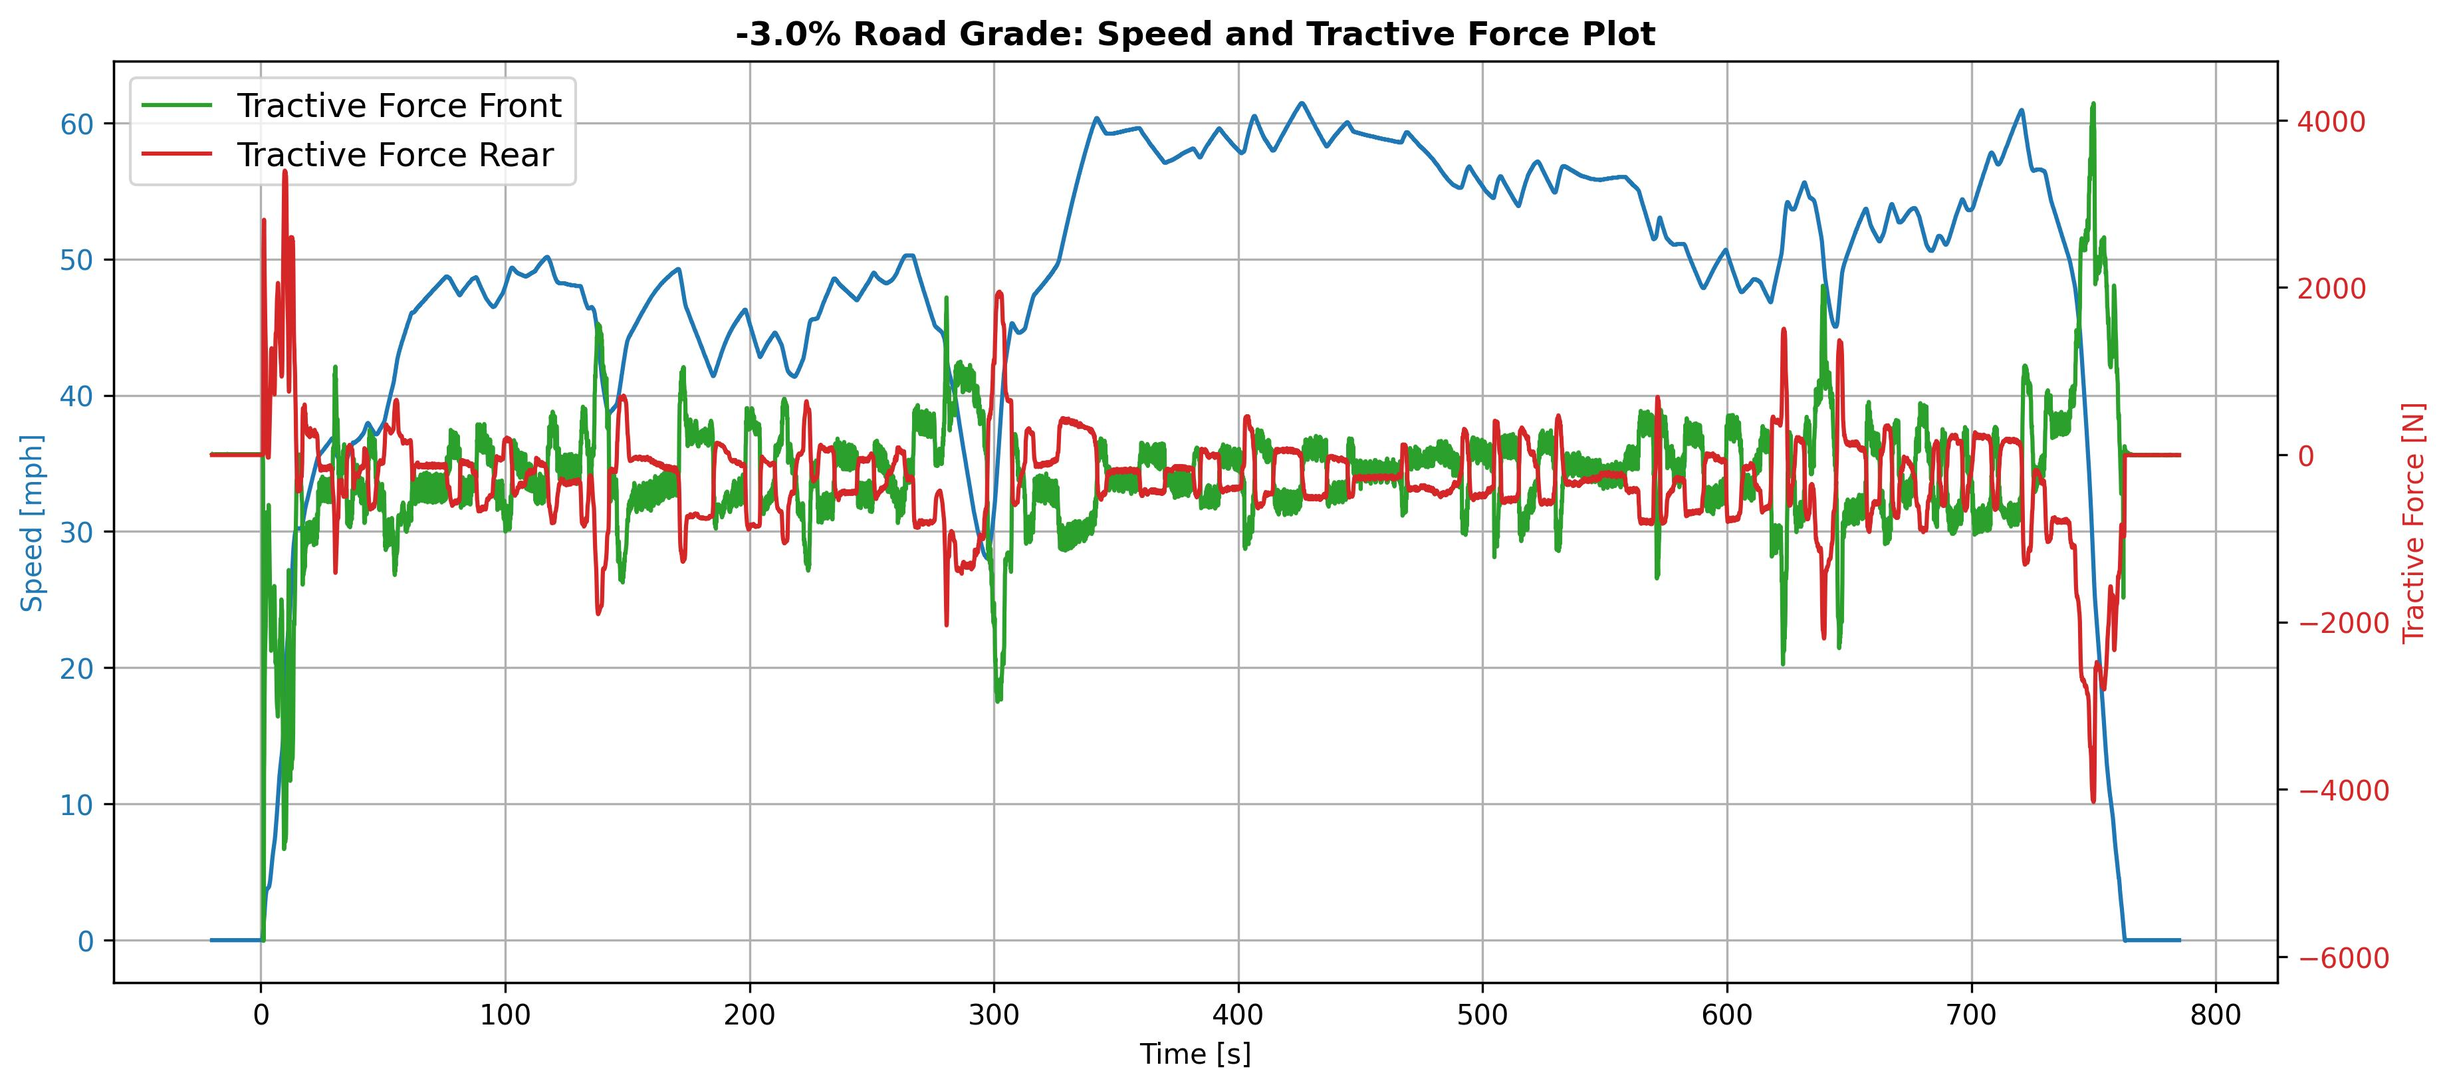
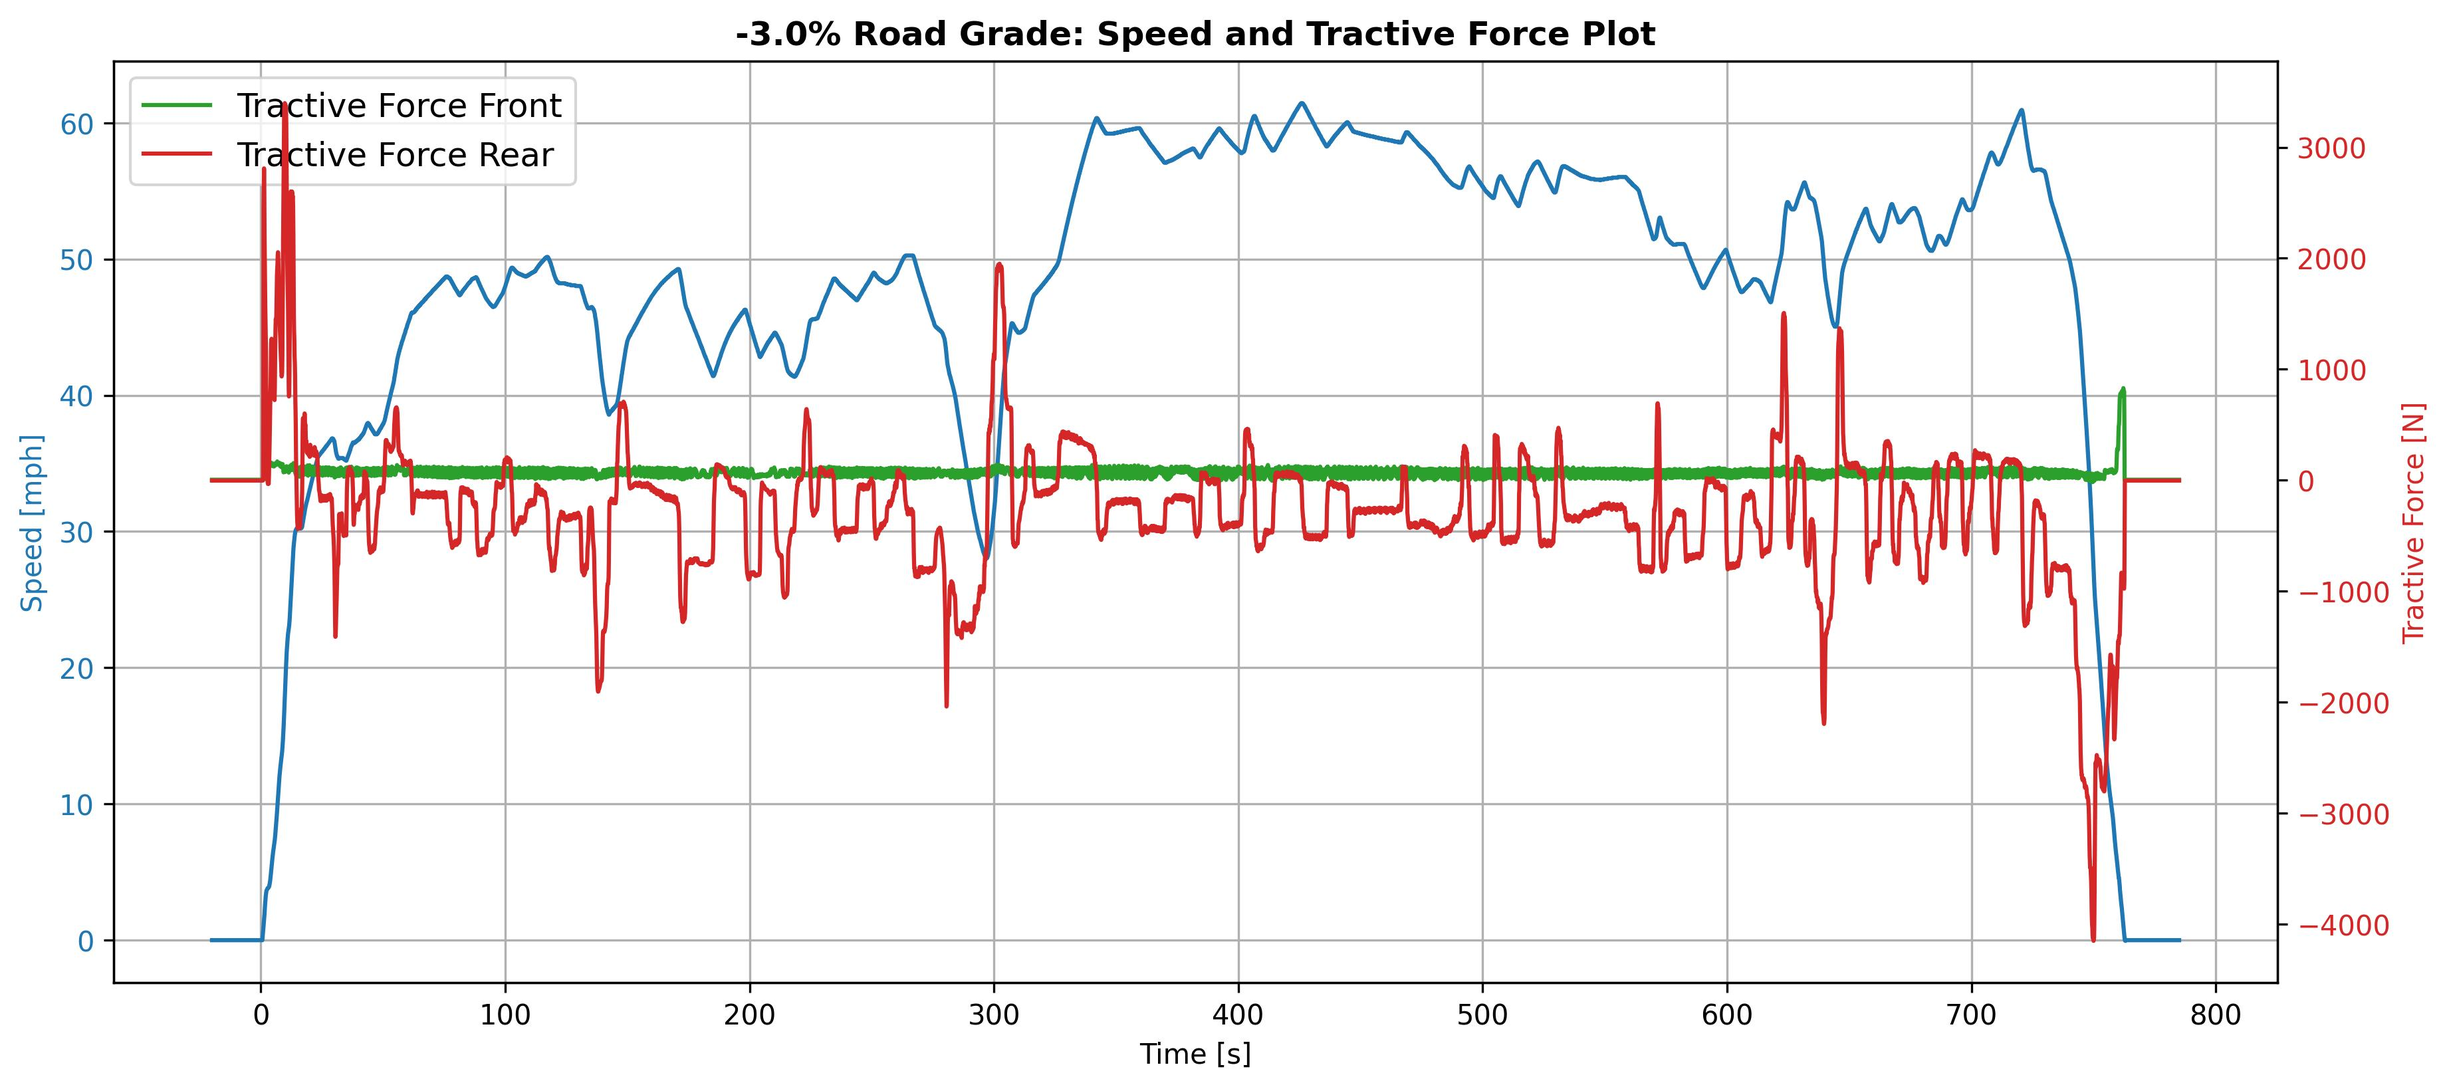
performed grade analyzer

diff --git a/src/tools/xil-data-analysis/2020-Tesla-Model3/EnergyConsumptionModel.py b/src/tools/xil-data-analysis/2020-Tesla-Model3/EnergyConsumptionModel.py
@@ -1,0 +1,302 @@
+import os
+import platform
+import numpy as np
+from nptdms import TdmsFile
+from sklearn.linear_model import LinearRegression
+from sklearn.preprocessing import PolynomialFeatures
+from sklearn.model_selection import cross_val_score, KFold
+from sklearn.metrics import mean_squared_error
+import matplotlib.pyplot as plt
+
+class EnergyConsumptionModel:
+    """A class to model energy consumption based on vehicle speed, tractive force, road grade, current, and voltage."""
+    
+    def __init__(self, config):
+        self.config = config
+        self.debug_status = self.config['Debug']
+        self.title_status = self.config['SetTitle']
+        self.plot_save = False if self.debug_status else self.config['PlotSave']
+        self.road_grade_test_file_list = self.config['RoadGradeFileList']
+        self.road_grade_list = self.config['RoadGrade']
+        self.grade_data = []
+        self.speed_data_mps = []
+        self.speed_data_mph = []
+        self.energy_consumed_list, self.energy_regenerated_list, self.net_energy_used_list, self.average_energy_rate_list = [], [], [], []
+        
+    def get_data_directory(self):
+        """
+            Method to get the Data directory irrespective of operating system
+        """
+        current_os = platform.system()
+
+        if current_os == "Linux":
+            data_directory = os.path.join(os.path.expanduser("~"), "Downloads", "2020-Tesla-Model3")
+        # elif current_os == "Windows":
+        #     data_directory = os.path.join("C:\\", "Users", "ddas", "Documents", "Data", "2020-Tesla-Model3", "road-grada-data")
+            
+        elif current_os == "Windows":
+            user_directory = os.environ['USERPROFILE']  # This retrieves the user's home directory in Windows
+            data_directory = os.path.join(user_directory, "Documents", "Data", "2020-Tesla-Model3", "road-grada-data")
+
+        else:
+            raise OSError(f"Unsupported operating system: {current_os}")
+        
+        return data_directory      
+        
+    def get_data_from_group_channel(self):
+        """
+            Method to get data from group and channel
+        """
+        
+        self.group_data = self.tdms_file["Data"]
+
+        self.time_channel = self.group_data['Time[s]']
+        self.speed_channel_kph = self.group_data['veh_speed']       
+        self.voltage_channel = self.group_data['BMS_packVoltage']
+        self.current_channel = self.group_data['BMS_packCurrent']
+        self.drive_trace_speed_channel = self.group_data['Dyno_Data_Drivetrace_Spd_Vspy']
+        self.tractive_force_channel = self.group_data['Dyno_TractiveForce[N]']
+        
+        # self.tractive_force_front_channel = self.group_data['Dyno_TractiveForce_Front[N]']
+        self.tractive_force_front_channel = self.group_data['Dyno_LoadCell_Front[N]']
+        self.tractive_force_rear_channel = self.group_data['Dyno_TractiveForce_Rear[N]']
+        
+        self.time_data = self.time_channel[:]
+        self.speed_data_mph = self.speed_channel_kph[:] * 0.62137 
+        self.speed_data_mps = self.speed_channel_kph[:] * 0.277778
+        self.drive_trace_speed_data_mph = self.drive_trace_speed_channel[:]
+        
+        self.voltage = self.voltage_channel[:]
+        self.current = self.current_channel[:]
+        self.power_kw = (self.voltage * self.current) / 1000
+        
+        self.tractive_force = self.tractive_force_channel[:]
+        self.tractive_force_front = self.tractive_force_front_channel[:]
+        self.tractive_force_rear = self.tractive_force_rear_channel[:]
+        
+        # Define regeneration logic: when current is positive, we are recovering energy
+        self.regen_flag = np.where(self.current > 0, 1, 0)  # 1 when regenerative braking occurs, 0 when consumption
+
+    def data_preprocessing(self):
+        """
+        Prepare the data: Extract relevant features and target variable.
+        """
+        speed_mph_list = []
+        road_grade_list = []
+        tractive_force_list = []
+        tractive_force_front_list = []
+        tractive_force_rear_list = []
+        power_kw_list = []
+        regen_flag_list = []
+        
+        data_directory = self.get_data_directory()
+        
+        for index, test_file_name in enumerate(self.road_grade_test_file_list):
+            tdms_file_path = os.path.join(data_directory, test_file_name)
+            
+            # Check if the file exists
+            if not os.path.isfile(tdms_file_path):
+                raise FileNotFoundError(f"No such file: {tdms_file_path}")
+            print(f"Processing test file: {test_file_name}")
+            
+            road_grade = self.road_grade_list[index]
+            print(f"Road Grade: {road_grade} %")
+            
+            self.tdms_file = TdmsFile.read(tdms_file_path)
+            self.get_data_from_group_channel()
+            
+            for i in range(1, len(self.time_data)):
+                speed_mph_list.append(self.speed_data_mph[i])
+                road_grade_list.append(road_grade)
+                tractive_force_list.append(self.tractive_force[i])
+                tractive_force_front_list.append(self.tractive_force_front[i])
+                tractive_force_rear_list.append(self.tractive_force_rear[i])
+                power_kw_list.append(self.power_kw[i])
+                regen_flag_list.append(self.regen_flag[i])
+                
+        # Convert features to numpy arrays for processing
+        speed = np.array(speed_mph_list)  # Speed in mph
+        tractive_force = np.array(tractive_force_list)  # Tractive force in N
+        tractive_force_front = np.array(tractive_force_front_list)  # Front tractive force in N
+        tractive_force_rear = np.array(tractive_force_rear_list)  # Rear tractive force in N
+        grade = np.array(road_grade_list)  # Road grade
+        power_kw = np.array(power_kw_list)  # Power in kW
+        regen_flag = np.array(regen_flag_list)  # Regeneration flag
+        
+        # Stack features into a single matrix (X)
+        # X = np.column_stack((speed, tractive_force, grade, regen_flag))
+        X = np.column_stack((speed, tractive_force, grade))
+
+        # Target variable (y) is the energy consumed
+        y = power_kw
+
+        return X, y
+    
+    def calculate_energy_with_regeneration(self):
+        """
+        Compute energy consumed and regenerated, adjusting for regeneration during deceleration or downhill.
+        """
+        # Extract data
+        current = np.array(self.current)
+        voltage = np.array(self.voltage)
+
+        # Calculate energy consumed: Energy = current * voltage
+        energy = (current * voltage) / 1000  # Convert from W to kW
+        
+        # Define regeneration logic: when current is positive, we are recovering energy
+        regen_energy = np.where(current > 0, energy, 0)  # Only when current is positive (regeneration)
+        
+        # Define consumption: when current is negative, we are consuming energy
+        consumed_energy = np.where(current < 0, energy, 0)  # Only when current is negative (consumption)
+        
+        # Calculate net energy
+        net_energy = np.sum(consumed_energy) - np.sum(regen_energy)  # Total energy consumed minus regeneration
+        
+        print(f"Total Energy Consumed: {np.sum(consumed_energy):.3f} kWh")
+        print(f"Total Energy Regenerated: {np.sum(regen_energy):.3f} kWh")
+        print(f"Net Energy Used: {net_energy:.3f} kWh")
+
+        return consumed_energy, regen_energy, net_energy
+
+    def cross_validate_model(self, model, X, y):
+        """
+        Performs K-Fold Cross Validation on the given model and returns the Mean Squared Error.
+        """
+        kf = KFold(n_splits=5, shuffle=True, random_state=42)
+        cv_scores = cross_val_score(model, X, y, cv=kf, scoring='neg_mean_squared_error')
+
+        # Convert negative MSE to positive
+        mean_mse = -cv_scores.mean()
+        print(f"Cross-Validation MSE: {mean_mse:.4f}")
+        return mean_mse
+
+    def linear_regression(self, title="Linear Regression Model", fileName="linear_regression_plot"):
+        """
+        Fit a linear regression model to the data.
+        """
+        
+        # Preprocess the data
+        X, y = self.data_preprocessing()
+
+        # Create and train the linear regression model
+        model = LinearRegression()
+        model.fit(X, y)
+        
+        # Perform cross-validation
+        # self.linear_mse = self.cross_validate_model(model, X, y)
+
+        # Make predictions
+        y_pred = model.predict(X)
+
+        # Calculate Mean Squared Error
+        mse = mean_squared_error(y, y_pred)
+        print(f"Linear Regression MSE: {mse:.4f}")
+
+        # Print coefficients
+        print(f"Intercept (β0): {model.intercept_:.4f}")
+        print(f"Coefficients (β1, β2, β3): {model.coef_}")
+
+        # Plot predicted vs actual energy consumption
+        plt.figure(figsize=(8, 6))
+        plt.scatter(y, y_pred, color='blue')
+        plt.plot([min(y), max(y)], [min(y), max(y)], color='red', linestyle='--')
+        # plt.legend(["Predicted vs Actual", "Ideal Line"], loc='upper left')
+        plt.xlabel("Actual Energy Consumed (kWh)")
+        plt.ylabel("Predicted Energy Consumed (kWh)")
+        plt.title("Linear Regression: Actual vs. Predicted Energy Consumption")
+        
+        # Title and grid
+        if self.title_status:
+            plt.title(title, fontweight='bold')
+        plt.grid(True)
+
+        # Save or show
+        if self.plot_save:
+            file_directory = "figures/" + fileName + ".jpg"
+            plt.savefig(file_directory, bbox_inches='tight', dpi=300)
+            print("Saved plot successfully at:", file_directory)
+        else:
+            plt.show()
+
+        plt.close()
+
+    def polynomial_regression(self, degree=2, title="Polynomial Regression Model", fileName="polynomial_regression_plot"):
+        """
+        Fit a polynomial regression model to the data for better fit.
+        """
+        # Preprocess the data
+        X, y = self.data_preprocessing()
+
+        # Transform the features to polynomial features (degree 2)
+        poly = PolynomialFeatures(degree)
+        X_poly = poly.fit_transform(X)
+
+        # Create and train the polynomial regression model
+        model = LinearRegression()
+        
+        # # Perform cross-validation
+        # self.poly_mse = self.cross_validate_model(model, X_poly, y)
+        
+        model.fit(X_poly, y)
+        
+        # Make predictions
+        y_pred_poly = model.predict(X_poly)
+
+        # Calculate Mean Squared Error
+        mse_poly = mean_squared_error(y, y_pred_poly)
+        print(f"Polynomial Regression MSE: {mse_poly:.4f}")
+
+        # Print coefficients
+        print(f"Intercept (β0): {model.intercept_:.4f}")
+        print(f"Polynomial Coefficients: {model.coef_}")
+
+        # Plot predicted vs actual energy consumption
+        plt.figure(figsize=(8, 6))
+        plt.scatter(y, y_pred_poly, color='blue')
+        plt.plot([min(y), max(y)], [min(y), max(y)], color='red', linestyle='--')
+        # plt.legend(["Predicted vs Actual", "Ideal Line"], loc='upper left')
+        plt.xlabel("Actual Energy Consumed (kWh)")
+        plt.ylabel("Predicted Energy Consumed (kWh)")
+        plt.title(f"Polynomial Regression (Degree {degree}): Actual vs. Predicted Energy Consumption")
+        
+        # Title and grid
+        if self.title_status:
+            plt.title(title, fontweight='bold')
+        plt.grid(True)
+
+        # Save or show
+        if self.plot_save:
+            file_directory = "figures/" + fileName + ".jpg"
+            plt.savefig(file_directory, bbox_inches='tight', dpi=300)
+            print("Saved plot successfully at:", file_directory)
+        else:
+            plt.show()
+
+        plt.close()
+        
+    def plot_actual_vs_predicted(self, y_actual, y_pred):
+        """
+        Plots the Actual vs Predicted Energy Consumption.
+        """
+        plt.figure(figsize=(8, 6))
+        plt.scatter(y_actual, y_pred, color='blue', label="Predicted vs Actual")
+        plt.plot([min(y_actual), max(y_actual)], [min(y_actual), max(y_actual)], color='red', linestyle='--', label="Ideal Line")
+        plt.xlabel("Actual Energy Consumed (kWh)")
+        plt.ylabel("Predicted Energy Consumed (kWh)")
+        plt.title("Actual vs Predicted Energy Consumption")
+        plt.legend()
+        plt.grid(True)
+        plt.show()
+
+
+'''##############################################
+                   Unit testing
+##############################################'''
+if __name__ == "__main__":
+    import json
+    configFile = open("config-files/configuration.json", 'r')
+    config = (json.load(configFile))
+    configFile.close()
+    energyConsumptionModel = EnergyConsumptionModel(config)
+    energyConsumptionModel.linear_regression(title="Linear Regression Model", fileName="linear_regression_plot")
+    energyConsumptionModel.polynomial_regression(degree=2, title="Polynomial Regression Model", fileName="polynomial_regression_plot")

diff --git a/src/tools/xil-data-analysis/2020-Tesla-Model3/RoadGradeAnalyzer.py b/src/tools/xil-data-analysis/2020-Tesla-Model3/RoadGradeAnalyzer.py
@@ -51,7 +51,9 @@ class RoadGradeAnalyzer:
         self.current_channel = self.group_data['BMS_packCurrent']
         self.drive_trace_speed_channel = self.group_data['Dyno_Data_Drivetrace_Spd_Vspy']
         self.tractive_force_channel = self.group_data['Dyno_TractiveForce[N]']
-        self.tractive_force_front_channel = self.group_data['Dyno_TractiveForce_Front[N]']
+        
+        # self.tractive_force_front_channel = self.group_data['Dyno_TractiveForce_Front[N]']
+        self.tractive_force_front_channel = self.group_data['Dyno_LoadCell_Front[N]']
         self.tractive_force_rear_channel = self.group_data['Dyno_TractiveForce_Rear[N]']
         
         self.time_data = self.time_channel[:]
@@ -131,7 +133,7 @@ class RoadGradeAnalyzer:
         self.average_energy_rate_list.append(self.avg_energy_rate_kwh_per_mile * (-1))
         
     def manage_test_data(self):
-        data = pd.DataFrame()
+
         data_directory = self.get_data_directory()
         
         for index, test_file_name in enumerate(self.road_grade_test_file_list):
@@ -150,26 +152,26 @@ class RoadGradeAnalyzer:
             
             self.compute_energy_metrics()
             
-            # self.plot_speed(self.time_data, self.speed_data_mph, self.drive_trace_speed_data_mph,
-            #                 x_label = "Time [s]", 
-            #                 y_label = "Speed [mph]", 
-            #                 title = f"{road_grade}% Road Grade: Dive Trace and Vehicle Speed Plot", 
-            #                 fileName = f"{road_grade}%_road_grade_drive_trace_and_vehicle_speed_plot")
+            self.plot_speed(self.time_data, self.speed_data_mph, self.drive_trace_speed_data_mph,
+                            x_label = "Time [s]", 
+                            y_label = "Speed [mph]", 
+                            title = f"{road_grade}% Road Grade: Dive Trace and Vehicle Speed Plot", 
+                            fileName = f"{road_grade}%_road_grade_drive_trace_and_vehicle_speed_plot")
             
-            # self.plot_speed_instantenous_power(self.time_data, self.speed_data_mph, self.power_kw, 
-            #                                     x_label = "Time [s]",
-            #                                     y_label1 = "Speed [mph]", 
-            #                                     y_label2 = "Power [kW]", 
-            #                                     title = f"{road_grade}% Road Grade: Speed and Instantaneous Power Plot",
-            #                                     fileName = f"{road_grade}%_road_grade_speed_and_instantaneous_power_plot")
+            self.plot_speed_instantenous_power(self.time_data, self.speed_data_mph, self.power_kw, 
+                                                x_label = "Time [s]",
+                                                y_label1 = "Speed [mph]", 
+                                                y_label2 = "Power [kW]", 
+                                                title = f"{road_grade}% Road Grade: Speed and Instantaneous Power Plot",
+                                                fileName = f"{road_grade}%_road_grade_speed_and_instantaneous_power_plot")
             
-            # self.plot_speed_power_energy(self.time_data, self.speed_data_mph, self.power_kw, self.cumulative_energy_kwh,
-            #                     x_label = "Time [s]",
-            #                     y_label1 = "Speed [mph]",
-            #                     y_label2 = "Instantaneous Power [kW]",
-            #                     y_label3 = "Cumulative Energy [kWh]",
-            #                     title = f"{road_grade}% Road Grade: Speed, Instantaneous Power and Cumulative Energy Plot",
-            #                     fileName = f"{road_grade}%_road_grade_speed_power_and_energy_plot")
+            self.plot_speed_power_energy(self.time_data, self.speed_data_mph, self.power_kw, self.cumulative_energy_kwh,
+                                x_label = "Time [s]",
+                                y_label1 = "Speed [mph]",
+                                y_label2 = "Instantaneous Power [kW]",
+                                y_label3 = "Cumulative Energy [kWh]",
+                                title = f"{road_grade}% Road Grade: Speed, Instantaneous Power and Cumulative Energy Plot",
+                                fileName = f"{road_grade}%_road_grade_speed_power_and_energy_plot")
             
             
             self.plot_speed_vs_tractive_force(title = f"{road_grade}% Road Grade: Speed and Tractive Force Plot",
@@ -462,7 +464,7 @@ class RoadGradeAnalyzer:
     
 
 
-    '''##############################################
+'''##############################################
                    Unit testing
 ##############################################'''
 if __name__ == "__main__":
